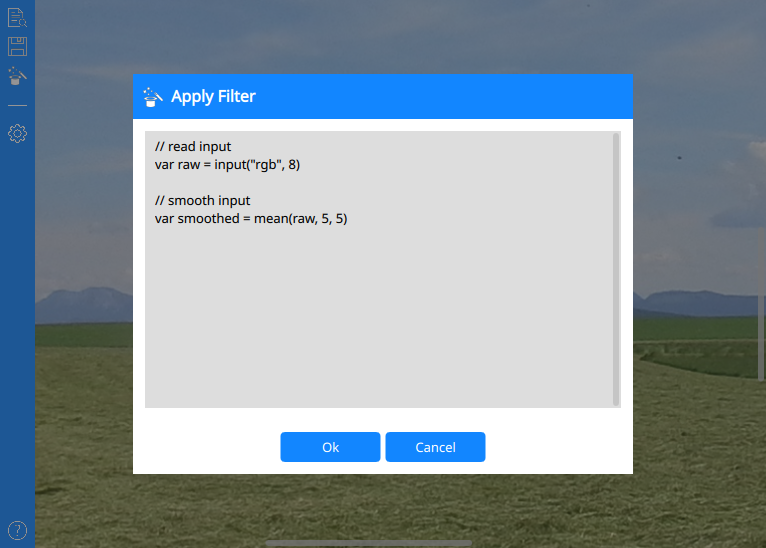
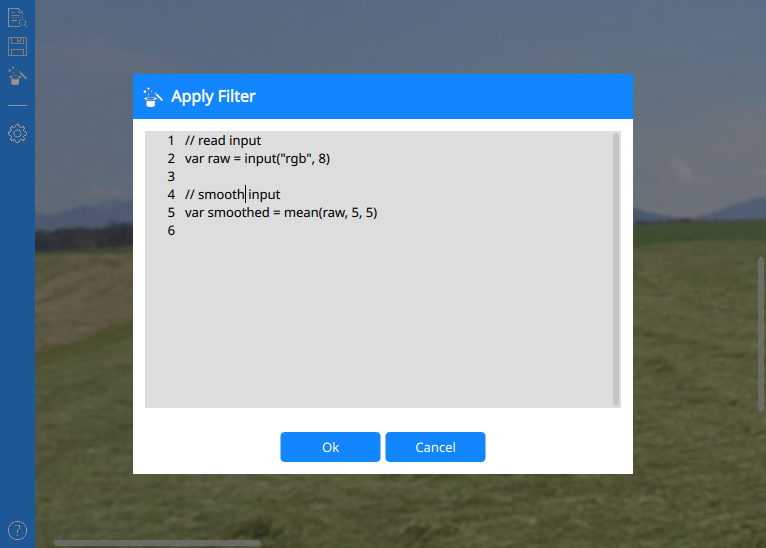
Add line numbers to filter editor

diff --git a/qml/FilterEditor.qml b/qml/FilterEditor.qml
@@ -1,11 +1,16 @@
 // Copyright (c) 2021 Franz Alt
 // This code is licensed under MIT license (see LICENSE.txt for details).
 
-import QtQuick 2.0
+import QtQuick 2.15
 import QtQuick.Controls 2.15
+import Qt.labs.settings 1.0
+
+import QtQml.Models 2.15
 
 Item
 {
+    id: filterEditor
+
     property string filter
 
     function filterText()
@@ -13,29 +18,207 @@ Item
         return textArea.text;
     }
 
-    ScrollView
+    property bool showLineNumbers: true
+
+    Row
     {
         anchors.fill: parent
 
-        ScrollBar.horizontal.policy: ScrollBar.AsNeeded
-        ScrollBar.vertical.policy: ScrollBar.AlwaysOn
-
-        TextArea
+        Rectangle
         {
-            id: textArea
+            anchors.fill: parent
 
-            placeholderText: qsTr("Enter filter expression")
+            color: theme.textInputBackground
+        }
 
-            color: theme.textInputColor
+        Flickable
+        {
+            id: lineNumbersView
 
-            background: Rectangle
+            width: 30
+
+            anchors.left: parent.left
+            anchors.top: parent.top
+            anchors.bottom: parent.bottom
+
+            clip: true
+
+            boundsBehavior: Flickable.StopAtBounds
+
+            contentWidth: 30
+            contentHeight: textArea.contentHeight
+
+            Item
             {
-                color: theme.textInputBackground
+                anchors.fill: parent
+
+                ListView
+                {
+                    id: lineNumbers
+
+                    anchors.fill: parent
+
+                    model: ListModel { ListElement { number: "" } }
+
+                    boundsBehavior: Flickable.StopAtBounds
+
+                    delegate: Text
+                    {
+                        text: number
+
+                        width: lineNumbersView.width
+
+                        horizontalAlignment: Text.AlignRight
+
+                        color: theme.textInputColor
+                    }
+                }
+            }
+        }
+
+        Flickable
+        {
+            id: expressionView
+
+            anchors.left: lineNumbersView.right
+            anchors.right: parent.right
+            anchors.top: parent.top
+            anchors.bottom: parent.bottom
+
+            clip: true
+
+            boundsBehavior: Flickable.StopAtBounds
+
+            contentWidth: Math.max(textArea.placeholderText.length * fontSize, textArea.contentWidth + verticalScrollBar.width + textArea.font.pixelSize)
+            contentHeight: Math.max(fontSize, textArea.contentHeight + horizontalScrollBar.height)
+
+            ScrollBar.horizontal: horizontalScrollBar
+            ScrollBar.vertical: verticalScrollBar
+
+            TextArea
+            {
+                id: textArea
+
+                anchors.fill: parent
+
+                topPadding: 0
+                leftPadding: 10
+
+                placeholderText: qsTr("Enter filter expression")
+
+                color: theme.textInputColor
+
+                background: Rectangle
+                {
+                    color: theme.textInputBackground
+                }
+
+                onTextChanged:
+                {
+                    filter = text;
+                }
+
+                onLineCountChanged:
+                {
+                    lineNumbers.model.clear();
+
+                    for (var i = 1; i <= lineCount; i++)
+                    {
+                        lineNumbers.model.append({"number": Number(i).toString()});
+                    }
+                }
+
+                MouseArea
+                {
+                    anchors.fill: textArea
+
+                    propagateComposedEvents: true
+
+                    onClicked:
+                    {
+                        textArea.cursorPosition = textArea.positionAt(mouse.x, mouse.y);
+                        textArea.forceActiveFocus();
+                    }
+                }
+            }
+        }
+
+        ScrollBar
+        {
+            id: verticalScrollBar
+
+            active: true
+
+            policy: ScrollBar.AlwaysOn
+
+            anchors.right: expressionView.right
+            anchors.top: expressionView.top
+            anchors.bottom: expressionView.bottom
+
+            orientation: Qt.Vertical
+
+            z: 1
+
+            stepSize: 0.05
+
+            onPositionChanged:
+            {
+                expressionView.contentY = position * textArea.height;
+
+                lineNumbersView.contentHeight = textArea.height;
+                lineNumbersView.contentY = position * textArea.height;
+            }
+        }
+
+        ScrollBar
+        {
+            id: horizontalScrollBar
+
+            active: true
+
+            policy: ScrollBar.AsNeeded
+
+            anchors.left: expressionView.left
+            anchors.right: expressionView.right
+            anchors.bottom: expressionView.bottom
+
+            orientation: Qt.Horizontal
+
+            z: 1
+
+            onPositionChanged:
+            {
+                expressionView.contentX = position * textArea.width;
+            }
+        }
+
+        MouseArea
+        {
+            anchors.fill: parent
+
+            propagateComposedEvents: true
+
+            acceptedButtons: Qt.RightButton
+
+            onClicked:
+            {
+                contextMenu.x = mouse.x;
+                contextMenu.y = mouse.y;
+                contextMenu.open();
             }
 
-            onTextChanged:
+            onWheel:
             {
-                filter = text;
+                wheel.accepted = false;
+
+                if (wheel.angleDelta.y < 0)
+                {
+                    verticalScrollBar.increase();
+                }
+                else
+                {
+                    verticalScrollBar.decrease();
+                }
             }
         }
     }
@@ -43,5 +226,35 @@ Item
     Component.onCompleted:
     {
         textArea.text = filter;
+    }
+
+    Menu
+    {
+        id: contextMenu
+
+        MenuItem
+        {
+            text: qsTr("Show Line Numbers")
+
+            checked: showLineNumbers
+
+            onTriggered:
+            {
+                showLineNumbers = !showLineNumbers;
+            }
+        }
+    }
+
+    onShowLineNumbersChanged:
+    {
+        lineNumbersView.visible = showLineNumbers;
+        lineNumbersView.width = showLineNumbers ? 30 : 0;
+    }
+
+    Settings
+    {
+        category: "FilterEditor";
+
+        property alias showLineNumbersEnabled: filterEditor.showLineNumbers
     }
 }

diff --git a/qml/FilterImage.qml b/qml/FilterImage.qml
@@ -134,7 +134,8 @@ Item
         }
     }
 
-    FileDialog {
+    FileDialog
+    {
         id: fileDialog
         title: qsTr("Select Input")
         nameFilters: [ qsTr("Image files (*.jpg *.png)"), qsTr("All files (*)") ]
